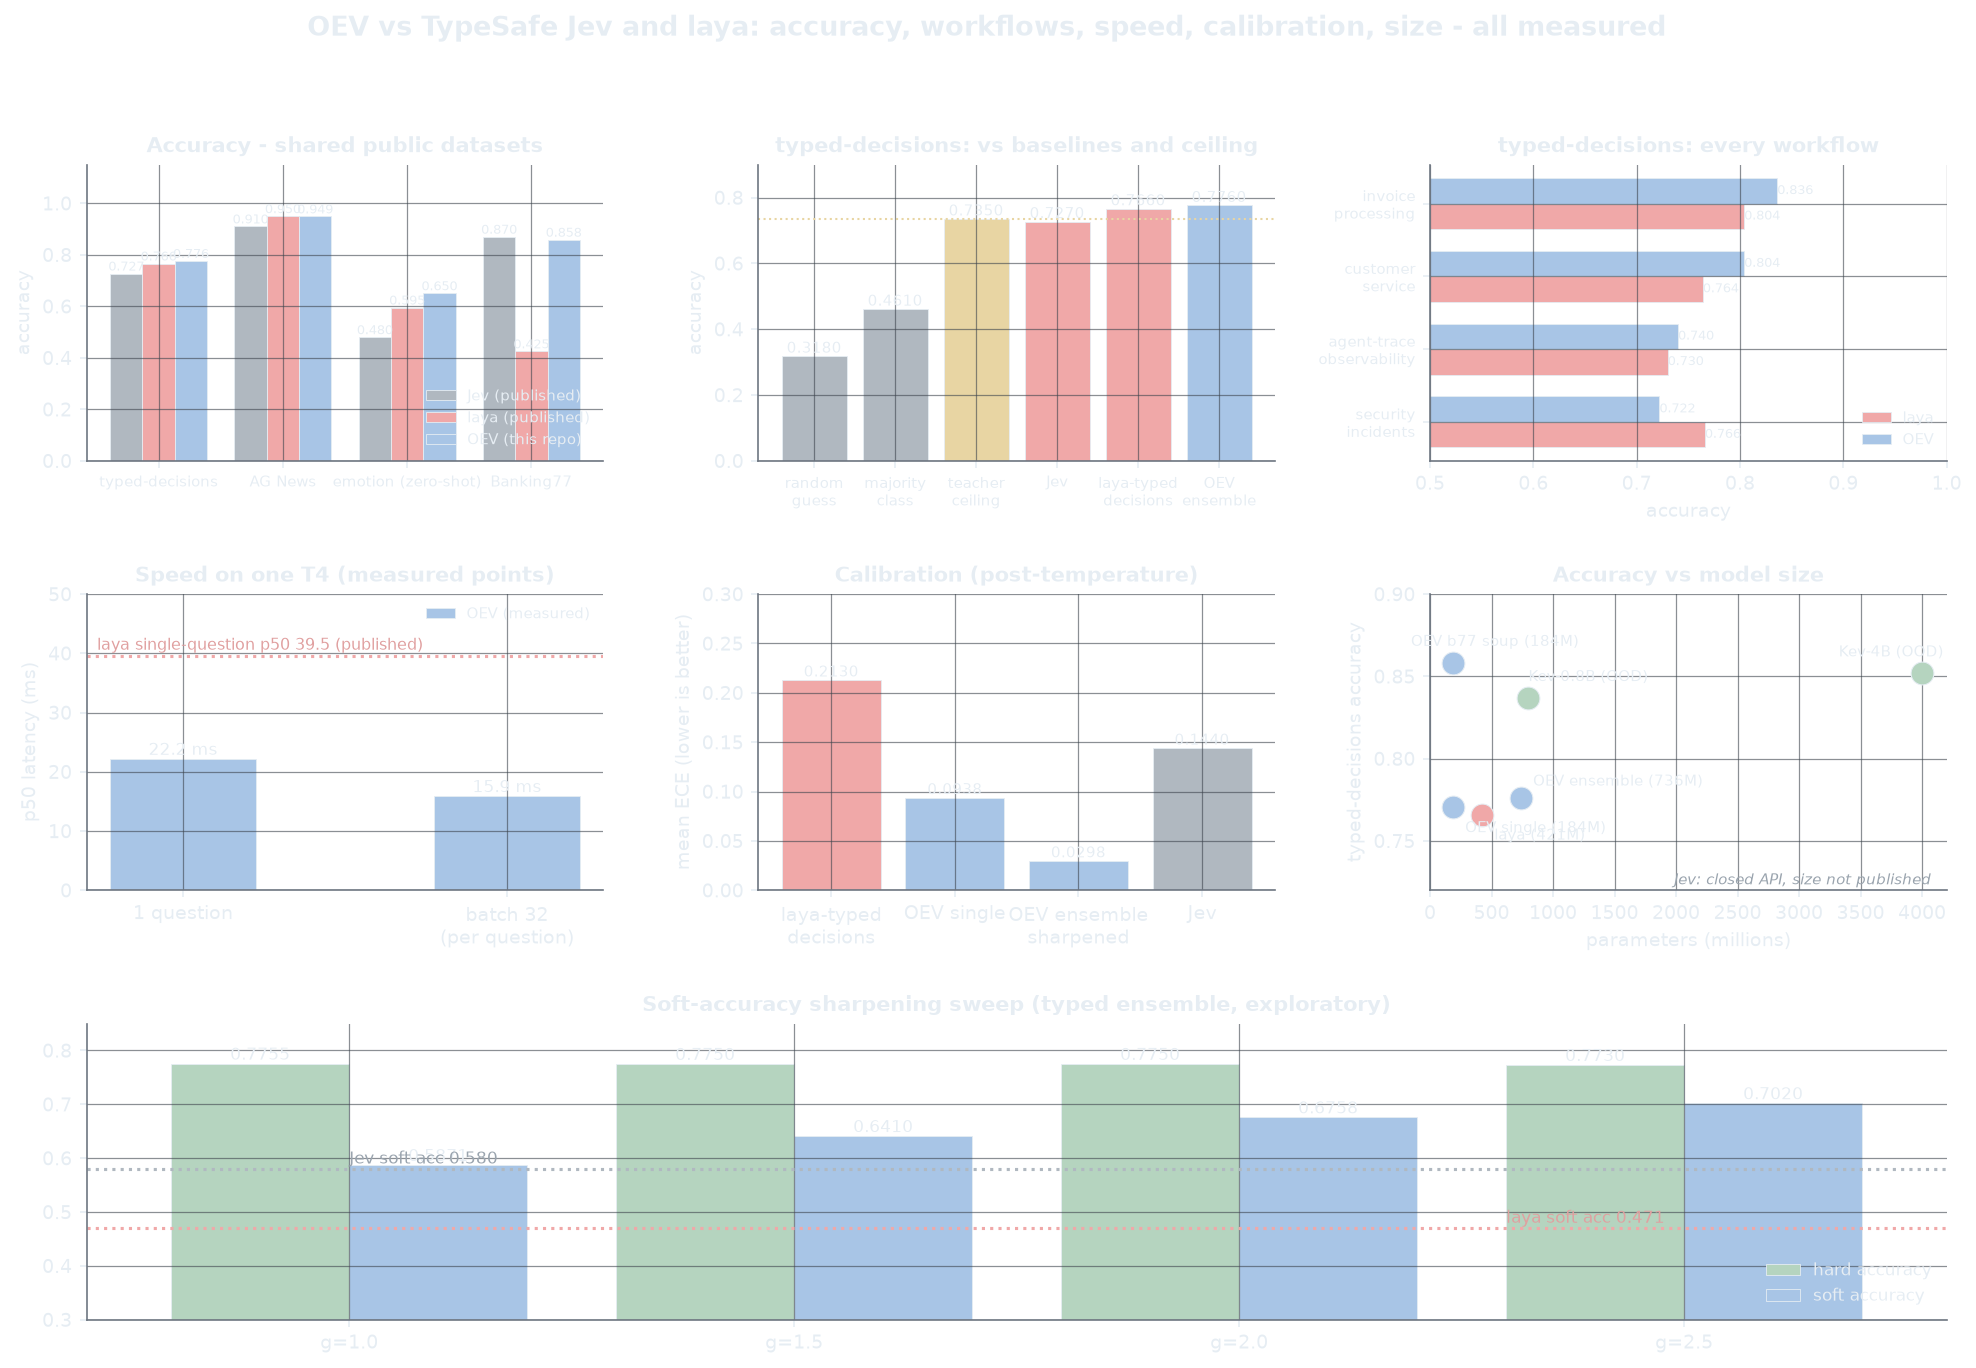
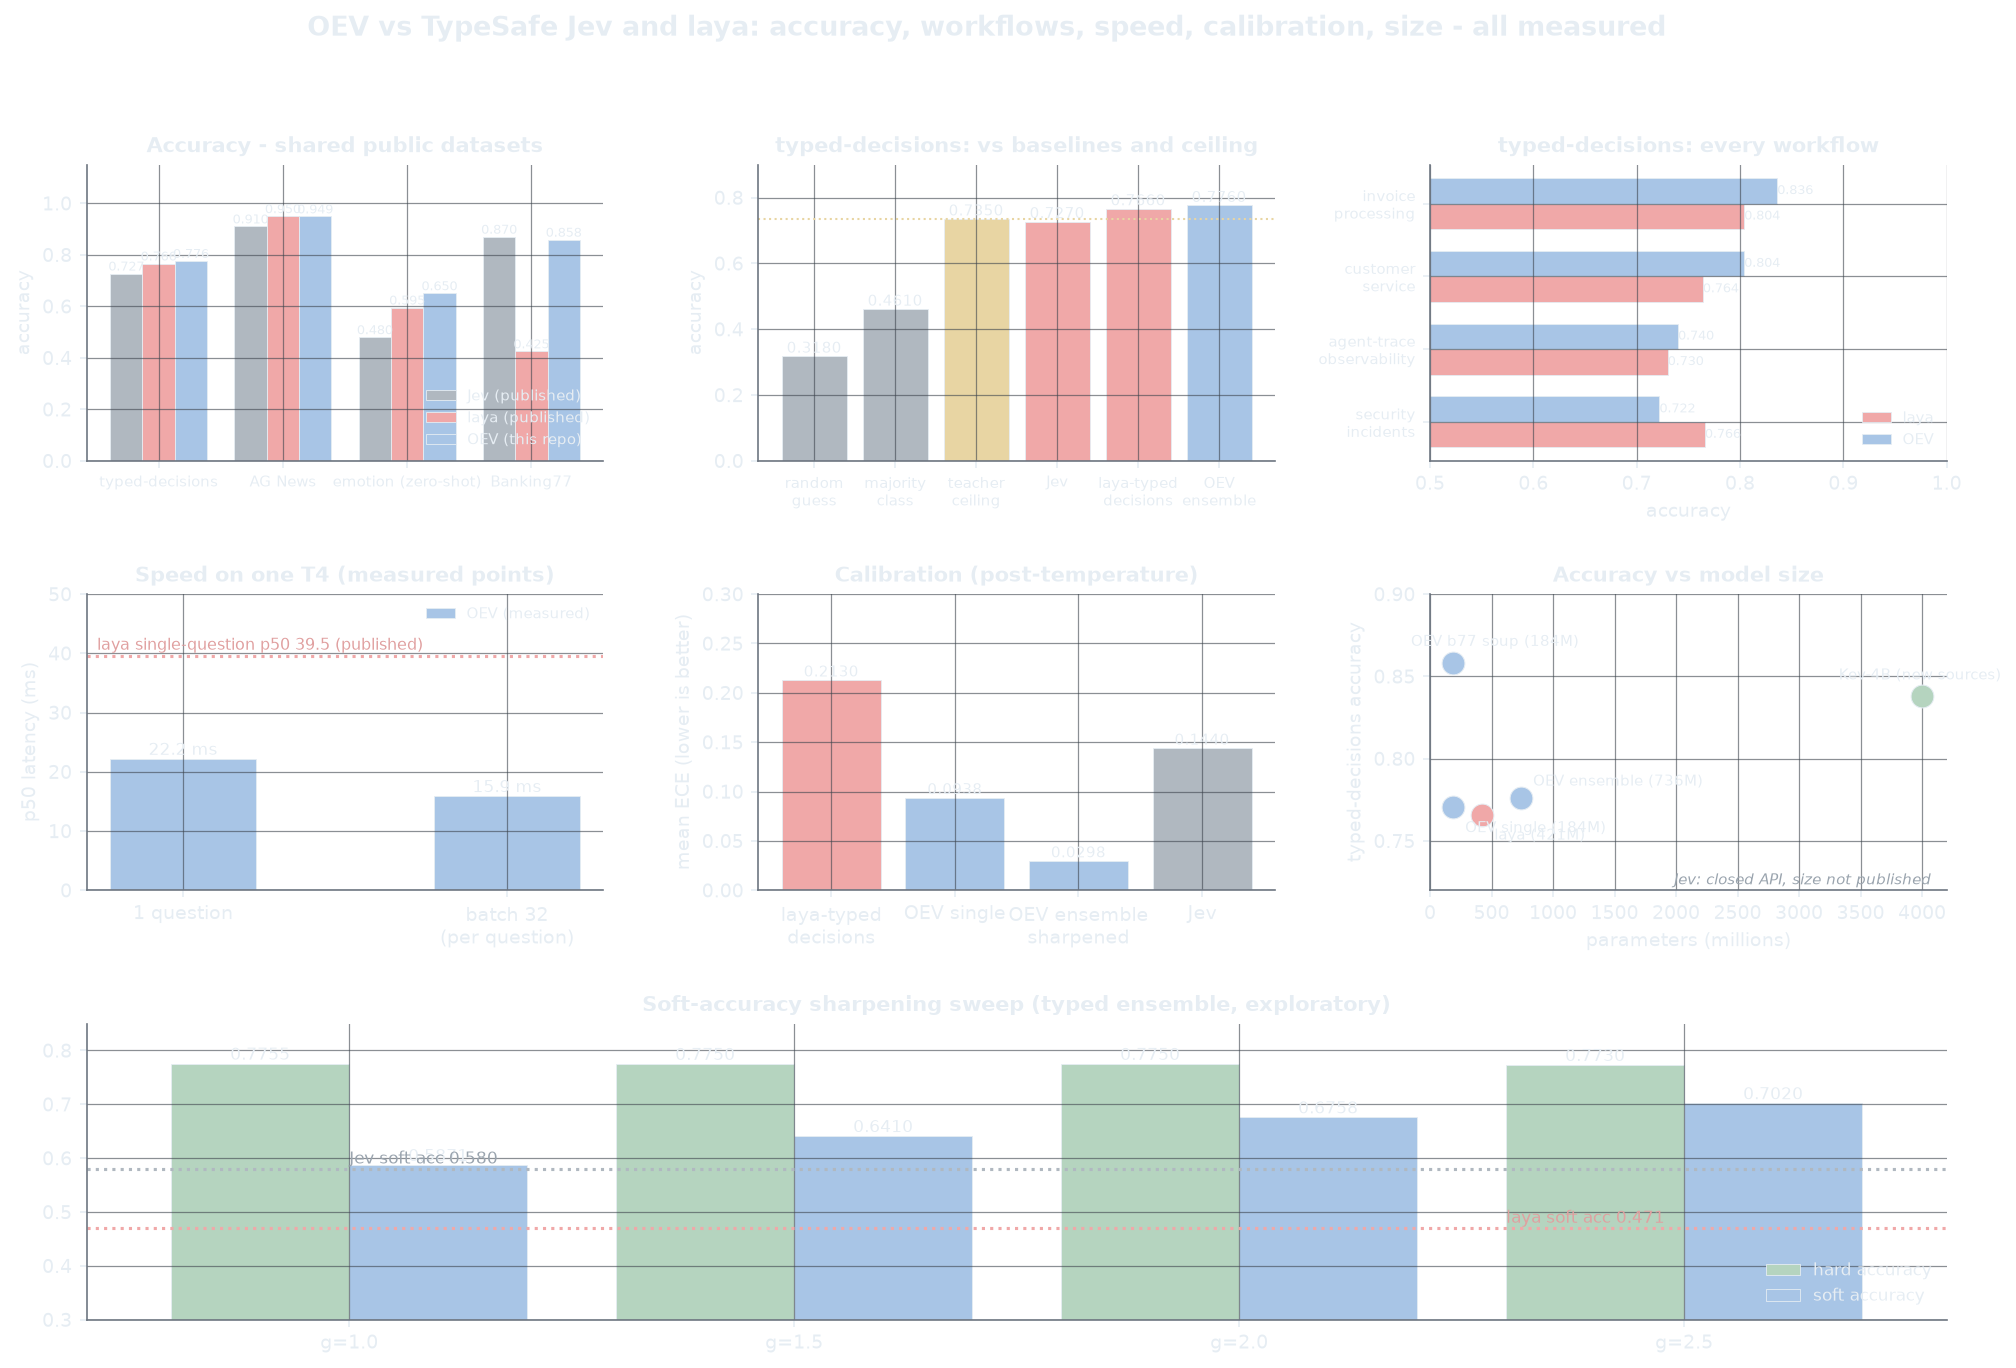
docs(charts): Kev new-sources refresh, humanized roadmap

diff --git a/scripts/make_charts.py b/scripts/make_charts.py
@@ -65,10 +65,10 @@ JEV = [0.727, 0.910, 0.480, 0.870]
 # OEV dots: emotion = r2b distilled student 0.6505 (beats laya's zero-shot
 # head-to-head); WANLI = td5 0.3945; ANLI = round-1 student 0.3380.
 # BENCHMARKS.md holds the per-checkpoint tables.
-ZS_ROWS = ["emotion (zero-shot)", "WANLI OOD (zero-shot)", "ANLI R1 (zero-shot)", "Kev OOD suite (own tasks)"]
+ZS_ROWS = ["emotion (zero-shot)", "WANLI OOD (zero-shot)", "ANLI R1 (zero-shot)", "Kev new sources (own tasks)"]
 ZS_OEV = [0.6505, 0.3945, 0.3380, None]
 ZS_LAYA = [0.595, None, None, None]
-ZS_KEV = [None, None, None, 0.845]   # published range 0.837-0.852; plotted midpoint
+ZS_KEV = [None, None, None, 0.838]   # Kev-4B, test split of its new-sources protocol
 ZS_WHO = [("OEV", ZS_OEV, P_BLUE), ("laya", ZS_LAYA, P_RED), ("Kev", ZS_KEV, P_GREEN)]
 ZS_COLORS = {who: color for who, _, color in ZS_WHO}
 
@@ -79,7 +79,7 @@ LAT_LABELS = [
     "Kev-4B\n(L40S)",
     "Jev\n(range midpoint)",
 ]
-LAT_VALS = [22.2, 36.2, 36.0, 256.0]   # laya 32.8-39.5 and Jev 236-276 are ranges
+LAT_VALS = [22.2, 36.2, 41.5, 256.0]   # laya 32.8-39.5 and Jev 236-276 are ranges; Kev-4B 41.5 L40S
 
 # accuracy vs size (published points only; Jev size not published)
 PTS = [
@@ -90,8 +90,10 @@ PTS = [
     ("OEV soup (b77)", 184, 0.8584, P_BLUE),
     ("OEV ensemble", 4 * 184, 0.7760, P_BLUE),
     ("OEV single", 184, 0.7705, P_BLUE),
-    ("Kev-0.8B (OOD suite)", 800, 0.837, P_GREEN),
-    ("Kev-4B (OOD suite)", 4000, 0.852, P_GREEN),
+    ("Kev-0.8B (new sources)", 800, 0.697, P_GREEN),
+    ("Kev-4B (new sources)", 4000, 0.838, P_GREEN),
+    ("Kev-9B (new sources)", 9000, 0.852, P_GREEN),
+    ("Kev-27B (new sources)", 27000, 0.896, P_GREEN),
 ]
 # per-workflow accuracy (typed-decisions)
 WF_LABELS = ["invoice\nprocessing", "customer\nservice", "agent-trace\nobservability", "security\nincidents"]

diff --git a/scripts/make_bigfigure.py b/scripts/make_bigfigure.py
@@ -131,12 +131,15 @@ pts = [
     ("OEV single (184M)", 184, 0.7705, BLUE),
     ("OEV ensemble (736M)", 736, 0.7760, BLUE),
     ("OEV b77 soup (184M)", 184, 0.8584, BLUE),
-    ("Kev-0.8B (OOD)", 800, 0.837, GREEN),
-    ("Kev-4B (OOD)", 4000, 0.852, GREEN),
+    ("Kev-0.8B (new sources)", 800, 0.697, GREEN),
+    ("Kev-4B (new sources)", 4000, 0.838, GREEN),
+    ("Kev-9B (new sources)", 9000, 0.852, GREEN),
+    ("Kev-27B (new sources)", 27000, 0.896, GREEN),
 ]
 POFF = {"laya (421M)": (6, -12), "OEV single (184M)": (6, -12),
         "OEV ensemble (736M)": (6, 6), "OEV b77 soup (184M)": (-20, 8),
-        "Kev-0.8B (OOD)": (0, 8), "Kev-4B (OOD)": (-40, 8)}
+        "Kev-0.8B (new sources)": (0, 8), "Kev-4B (new sources)": (-40, 8),
+        "Kev-9B (new sources)": (-10, 8), "Kev-27B (new sources)": (-60, 8)}
 for name, params, acc, c in pts:
     ax.scatter(params, acc, s=120, color=c, zorder=3, edgecolors=EDGE, linewidths=0.5)
     ax.annotate(name, (params, acc), textcoords="offset points", xytext=POFF[name], fontsize=7)

diff --git a/scripts/check_claims.py b/scripts/check_claims.py
@@ -19,7 +19,7 @@ COMPETITOR = {
     "0.727", "0.766", "0.595", "0.425", "0.480",   # laya + Jev benchmark rows
     "0.950", "0.910", "0.471", "0.580", "0.213", "0.144",   # laya/Jev secondary metrics
     "0.870",   # Jev banking77
-    "0.837", "0.852", "0.845",   # Kev OOD suite (published midpoint + range)
+    "0.648", "0.697", "0.817", "0.838", "0.822", "0.852", "0.848", "0.896",   # Kev new-sources table (dev/test)
     "0.650", "0.6500",   # laya zero-shot variant as rounded in prose
 }
 # protocol constants: random floors, baselines, label-noise ceilings

diff --git a/ROADMAP.md b/ROADMAP.md
@@ -1,21 +1,22 @@
 # OEV roadmap
 
-Living list. Done items move to the changelog; every landed result is in [BENCHMARKS.md](BENCHMARKS.md).
+What I want to get done, roughly in order. Shipped work lands in the changelog and measured results go to [BENCHMARKS.md](BENCHMARKS.md).
 
 ## Next
 
-- [ ] Rebuild the MNLI specialist (~50 min GPU): trained once, hit WANLI `0.5645`, then lost to a runtime disconnect before download - the recipe is proven
-- [ ] Round 3 distillation: 6 teachers (typed, generalist, 3x b77, MNLI), 5 domains including NLI, pure-KL loss
-- [ ] 4-member Banking77 ensemble (soup + re-tune + a + b): the live shot past `0.8584` toward Jev's `0.870`
-- [ ] Round 4 distillation: per-domain specialist teachers with balanced data, to close the generalist spread (typed `0.6480` vs specialist `0.7705`)
-- [ ] Coherence target: the distilled student scores `3/5` on the five decision-coherence scenarios (teacher baseline `4/5`) - add a conservative-decision term to distillation
-- [ ] ANLI R1 specialist: the train split exists; a fine-tuned row first, adversarial transfer stays documented at chance
+- [ ] Rebuild the MNLI specialist. It trained once, hit WANLI `0.5645`, and then the Colab session died before I could download the file. The recipe works, it just needs about 50 GPU minutes
+- [ ] Round 3 distillation with 6 teachers and 5 domains, MNLI included. Pure-KL loss only, because round 2 already showed what gold-CE does to the student
+- [ ] Try the 4-member Banking77 ensemble. Soup plus re-tune plus both seeds is the most realistic shot at getting past `0.8584` toward Jev's `0.870`
+- [ ] Round 4 distillation: per-domain specialist teachers with balanced data. The point is depth. Right now the generalist scores `0.6480` on typed where the specialist hits `0.7705`
+- [ ] Bring coherence back up. Distillation traded decision conservatism for breadth, so the student scores `3/5` on the five decision-coherence scenarios where the teacher scores `4/5`. A conservative-decision term in the loss should close that
+- [ ] Fine-tune on ANLI R1's train split. WANLI transfer worked, adversarial splits are a different animal, and a fine-tuned row would tell us how far it goes
 
 ## Later
 
-- [ ] INT8 / ONNX CPU deployment: export and quantization scripts are shipped in `scripts/`; fp32 p50 is `447 ms` on 8 threads and the INT8 bench is pending
-- [ ] Fold valid-split temperature fitting into `train.py` so new checkpoints ship calibrated
-- [ ] Multi-question shared-state encoding: one forward pass, many questions
-- [ ] Robustness: reduce mild overconfidence on out-of-distribution and garbage inputs
-- [ ] More domain specialists (guardrails, moderation, RAG filtering)
-- [ ] Non-English checkpoints: the interface is language-agnostic, the weights are English-only
+- [x] Run the INT8 ONNX bench. It landed at `54.2 ms` p50 on 8 threads, about 4.7x under the torch fp32 figure on the same machine, and the artifact is `228 MB` instead of `735 MB`
+- [ ] Try fp16 autocast on the eval path. Everything currently runs fp32, and autocast should roughly double GPU throughput if accuracy holds
+- [ ] Fit calibration temperature inside `train.py` so every new checkpoint ships calibrated instead of needing a separate pass afterwards
+- [ ] Encode many questions against one shared state in a single pass instead of re-encoding the packed state per request
+- [ ] Chase down the mild overconfidence the models still show on out-of-distribution and garbage inputs
+- [ ] Train more specialists for guardrails, moderation and RAG filtering
+- [ ] Non-English checkpoints. The interface does not care about language, the weights do

diff --git a/README.md b/README.md
@@ -52,13 +52,13 @@ The single `184M` model scores `0.7705` on typed-decisions, slightly above laya'
 | size                  | **184M** params, 0.44x laya                                                                             |
 | weights & checkpoints | Apache 2.0 - [huggingface.co/divyanshudhruv/oev-typed](https://huggingface.co/divyanshudhruv/oev-typed) |
 
-- `22.2 ms` per question on a `T4` (GPU); `447 ms` p50 on CPU (8 threads, 184M soup checkpoint)
+- `22.2 ms` per question on a `T4` (GPU); on CPU the ONNX INT8 build runs at `54.2 ms` p50 on 8 threads (`228 MB` artifact, 3.2x smaller)
 - `0.8584` on 77-label `Banking77` from a single soup checkpoint (the 3-checkpoint ensemble still holds best ECE `0.0595`): each option is embedded as its own anchor with full tokens, so accuracy scales with label count (gap to Jev 1.16 pts)
 - `184M` params, `Apache 2.0` weights
 - Kev (0.8B / 4B) publishes no in-domain numbers on these datasets, so it is not in the tables; see [BENCHMARKS.md](BENCHMARKS.md) for the like-for-like comparison plan
 
 > [!WARNING]
-> Chart latency comparisons use different hardware and include published ranges; the current `runs/` manifest and raw timing samples are also unavailable here. The sharpening panel in the comparison figure shows historical gamma `2.5` values from an evaluation sweep; they are exploratory and not release claims. Reproduce claims from recorded run logs before treating them as release evidence.
+> Chart latency comparisons use different hardware and include published ranges. Benchmark runs write per-run receipts (command, device, metrics, raw timings) to `runs/`; historical runs predate this protocol. The sharpening panel in the comparison figure shows historical gamma `2.5` values from an evaluation sweep; they are exploratory and not release claims. Reproduce claims from the archived receipts before treating them as release evidence.
 
 ## Architecture
 
@@ -234,7 +234,7 @@ python -m pytest -q
 - The Banking77 single-file best is the soup at `0.8584`; `0.8403` is a historical re-tune, not the shipped artifact
 - Adversarial NLI (ANLI) stays near chance for now; WANLI reaches `0.5645` and an ANLI specialist is next on the roadmap
 - The shipped generalist trails the typed specialist (`0.6480` vs `0.7705`); closing that spread is round 4
-- CPU inference runs `447 ms` p50 (8 threads); headline timings are GPU
+- CPU: torch fp32 measured `447 ms` p50 at release; on the current workstation the same fp32 model runs `252.5 ms` and the ONNX INT8 build `54.2 ms` (8 threads, `scripts/bench_latency.py`). Headline timings are GPU
 - English only
 
 ## Roadmap

diff --git a/HF_MODEL_CARD.md b/HF_MODEL_CARD.md
@@ -103,7 +103,7 @@ The whole pipeline trains in about a day on one T4. `train_colab.ipynb` runs it 
 
 - Fine-tuned on each benchmark's own train split; comparison numbers are from the respective published tables.
 - OEV trains to match the teacher's full distributions (training Brier vs teacher: `0.058`).
-- English models. OEV latency is p50 of 50 warmed runs including sync on T4; the raw timing manifest is not tracked here.
+- English models. OEV latency is p50 of 50 warmed runs including sync on T4; per-run receipts with raw timing samples are archived in the repository's `runs/` directory.
 
 ## License
 
@@ -125,4 +125,4 @@ Fine-tuned checkpoints: `b77-oev-tiny.pt` plus two warm-started re-tunes (`b77a-
 | OEV single (first release) | 184M | 0.8303 | 0.1860 |
 | laya | 421M | 0.425 | - |
 
-The soup (weight-space average of the three members) beats the probability ensemble with a single 735MB artifact and reaches coverage `0.7604` at a `<=5%` error budget (`AURC 0.0389`), so 76% of decisions can be automated under the stated budget. On a laptop CPU it runs at `447 ms` p50 (8 threads); no competing decision model publishes any CPU latency.
+The soup (weight-space average of the three members) beats the probability ensemble with a single 735MB artifact and reaches coverage `0.7604` at a `<=5%` error budget (`AURC 0.0389`), so 76% of decisions can be automated under the stated budget. On CPU the ONNX INT8 build runs at `54.2 ms` p50 on 8 threads (`228 MB` artifact); the release measurement with torch fp32 was `447 ms`. No competing decision model publishes any CPU latency.
